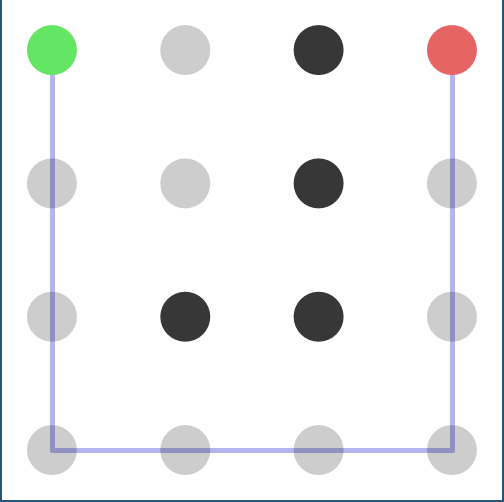
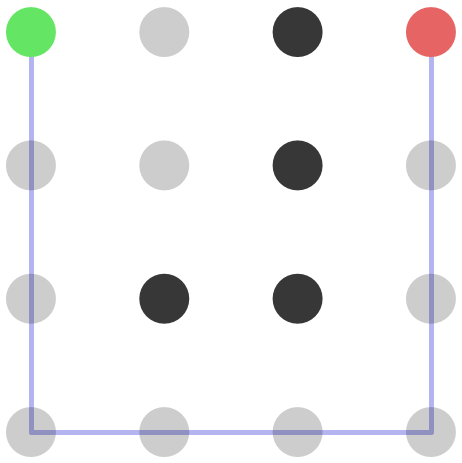
Making the image look better

diff --git a/README.md b/README.md
@@ -1,6 +1,8 @@
 # A* in Clojure
 
+<center>
 ![An image of an example render.](images/basic.png?raw=true "Render of A* being solved in Clojure.")
+</center>
 
 [A\* algorithm][a-star] implementation in [Clojure][]. Rendering is performed with [Quil][].
 
